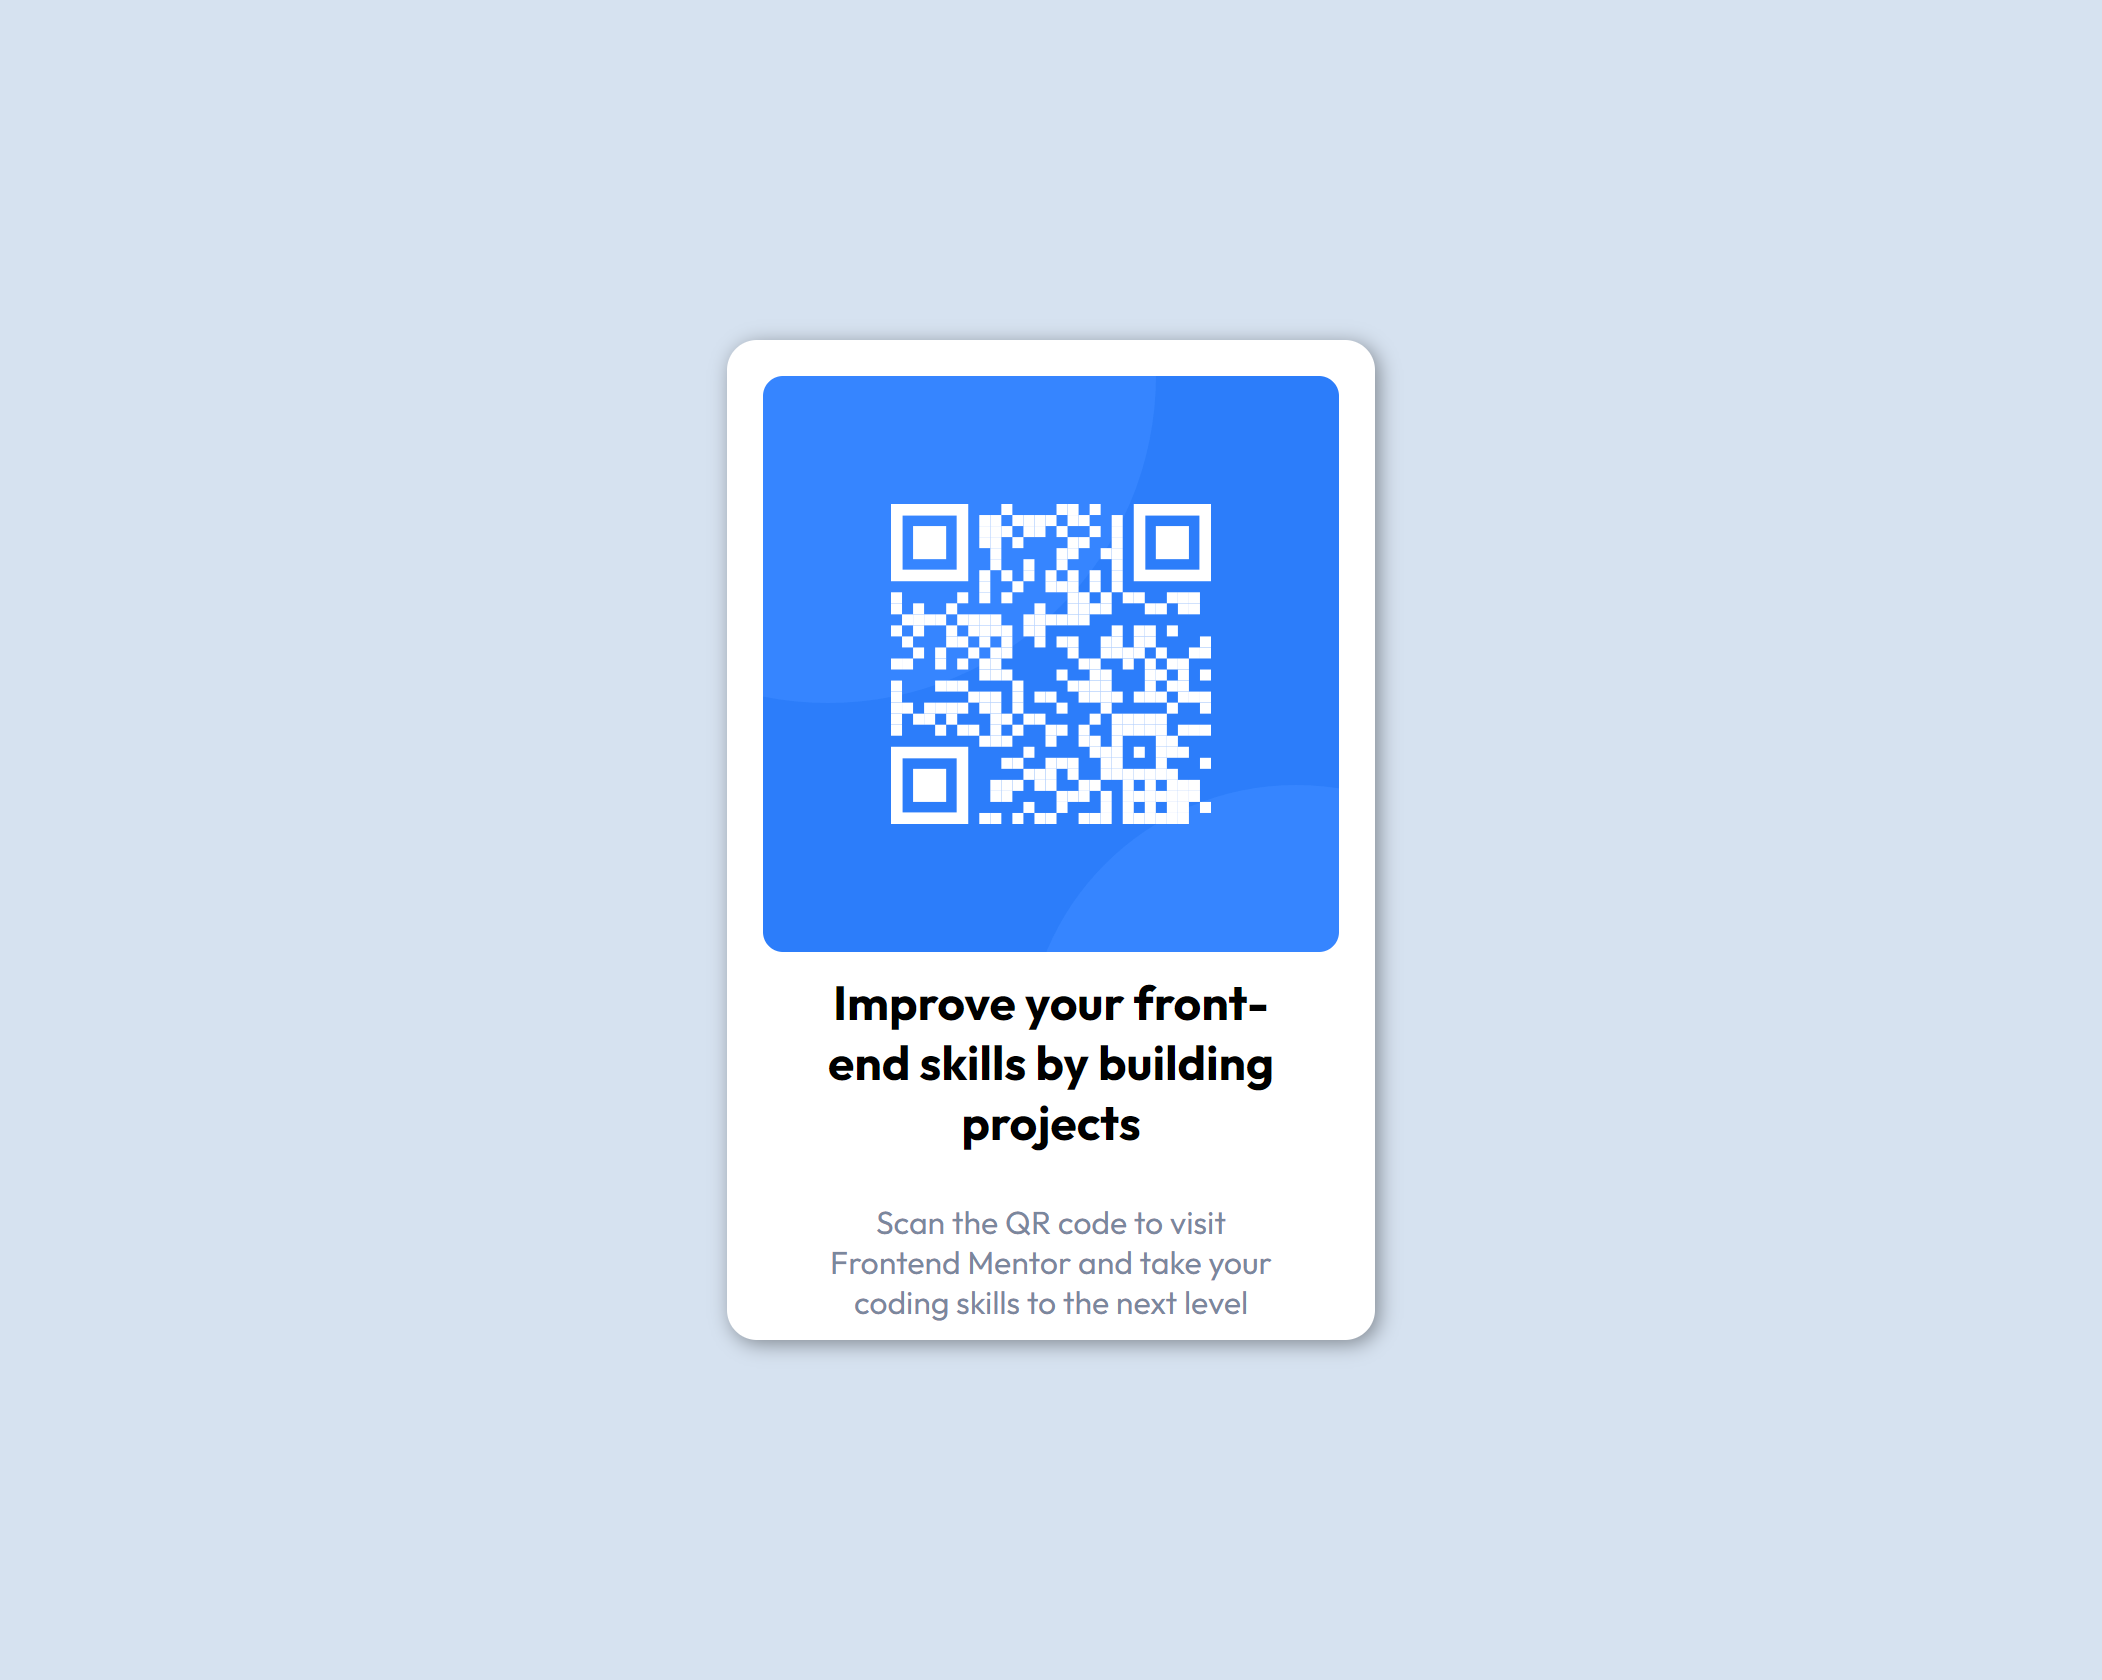
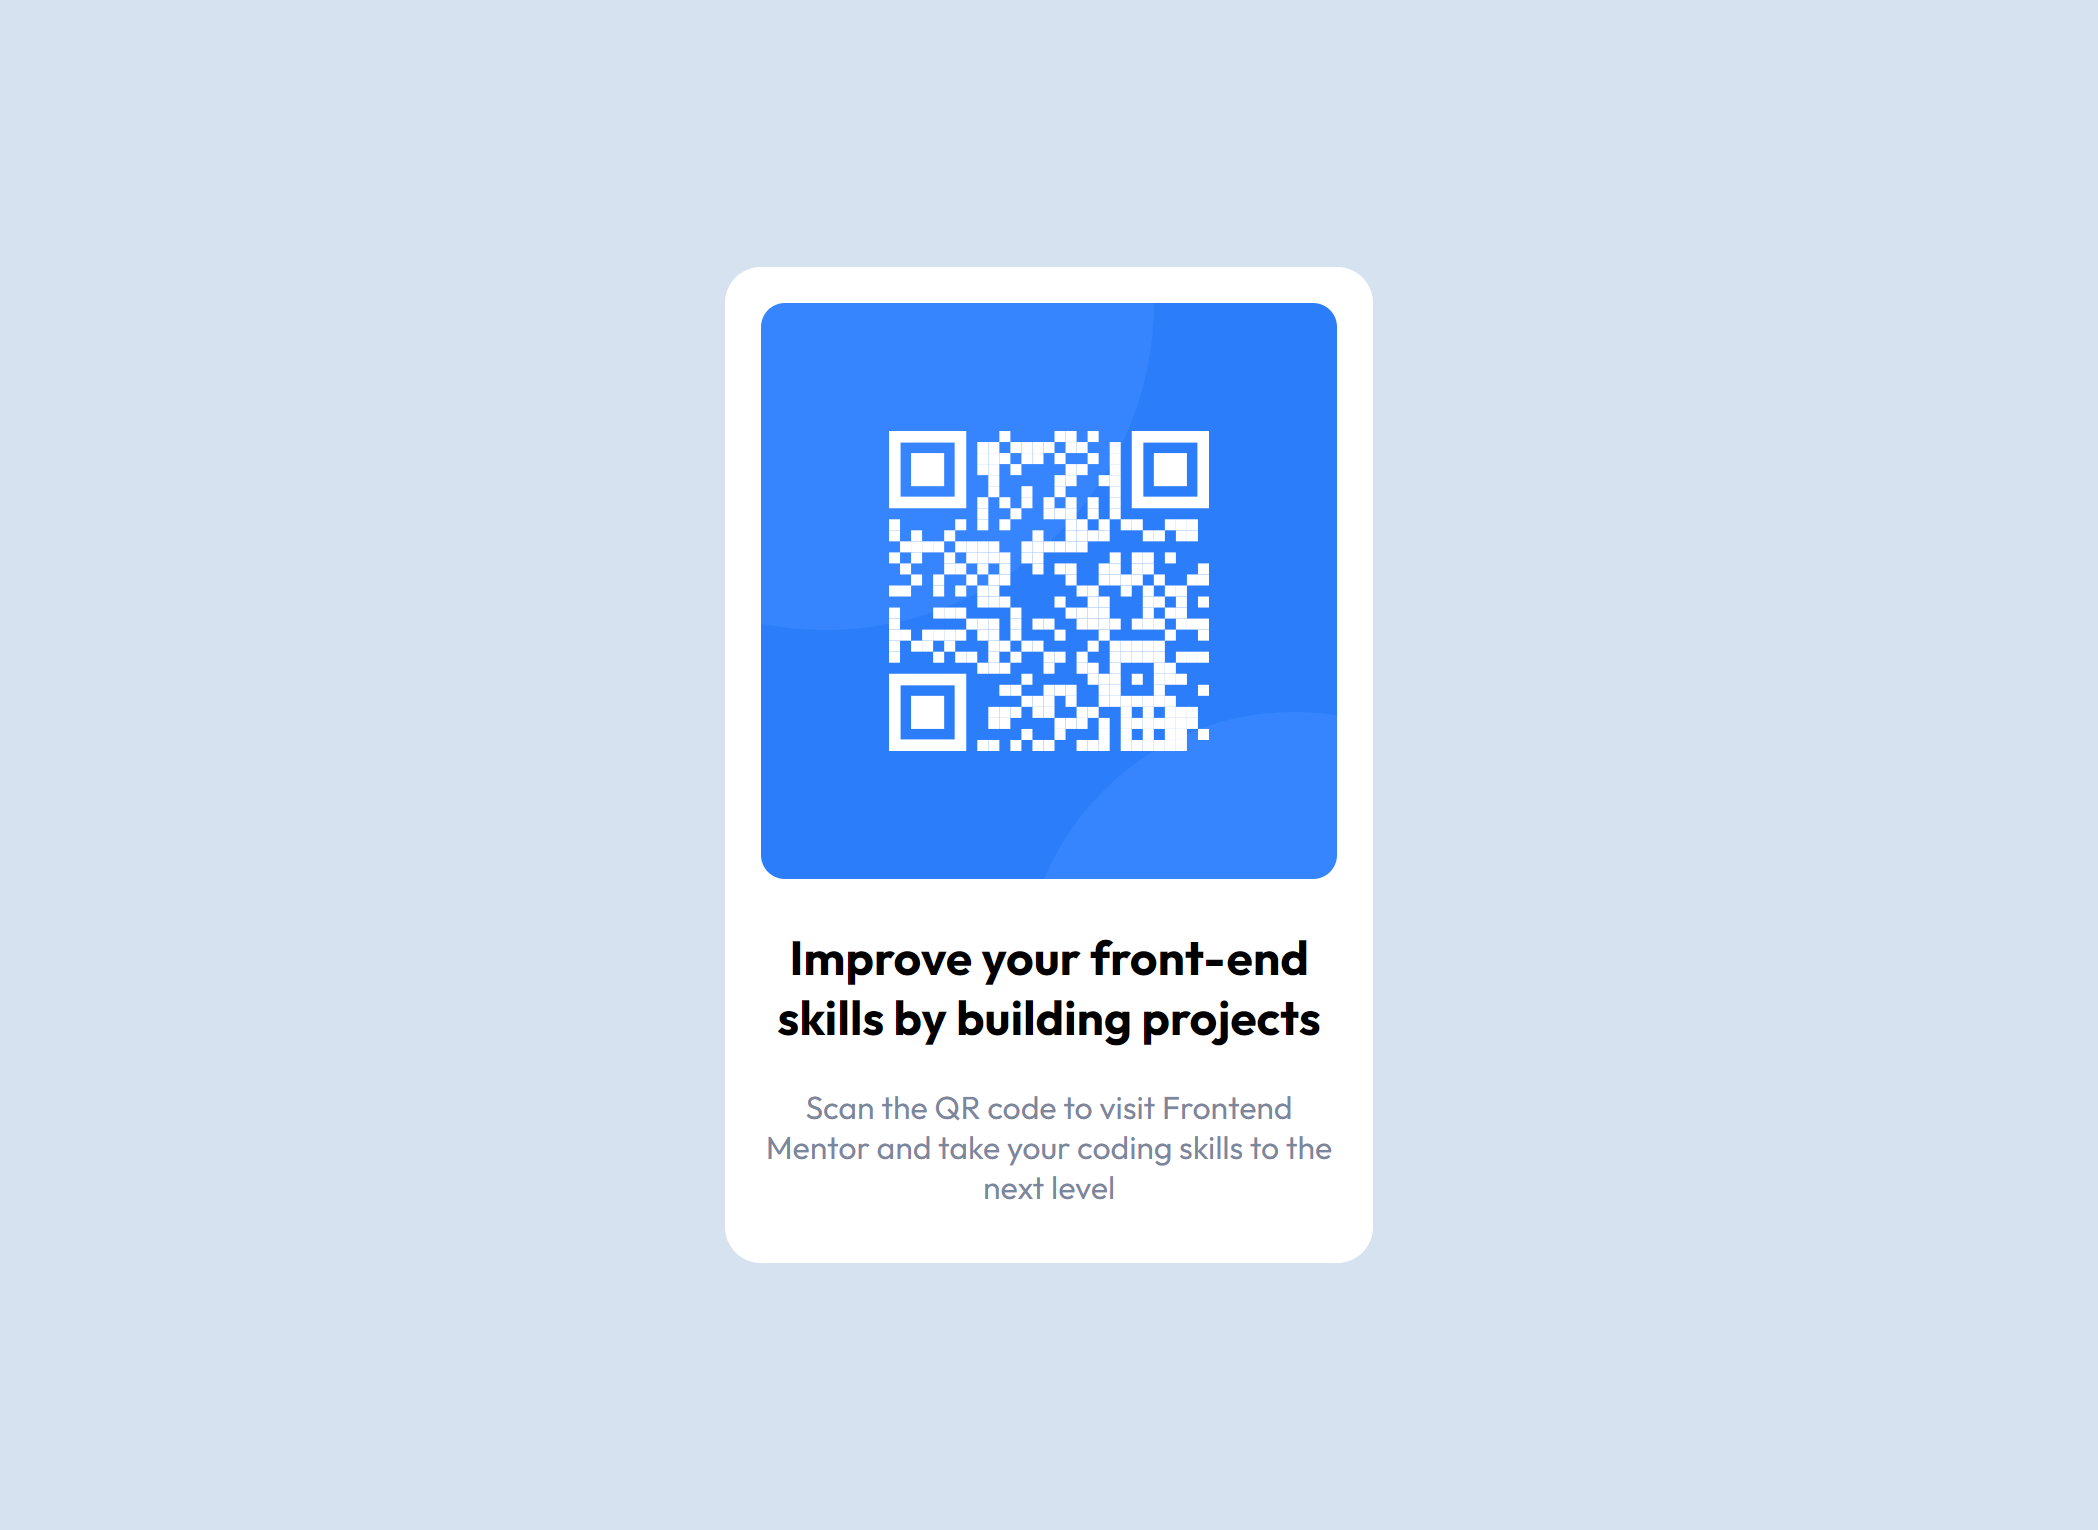
Add files via upload

Changed region(s): [[0.3408, 0.1536, 0.6816, 0.8294], [0.4028, 0.2765, 0.5887, 0.4915]]

diff --git a/style.css b/style.css
@@ -15,57 +15,57 @@
   padding: 0;
   box-sizing: border-box;
 }
+
 body {
-  font-family: 'Outfit', sans-serif;;
+  font-family: 'Outfit', sans-serif;
   background: var(--light-gray);
-  
+  min-height: 100vh;
+  display: flex;
+  justify-content: center;
+  padding: 10px;
+
+}
+
+.sr-only { 
+  border: 0;
+  padding: 0;
+  margin: 0;
+  position: absolute !important;
+  height: 1px; 
+  width: 1px;
+  overflow: hidden;
+  clip: rect(1px 1px 1px 1px); /* IE6, IE7 - a 0 height clip, off to the bottom right of the visible 1px box */
+  clip: rect(1px, 1px, 1px, 1px); /*maybe deprecated but we need to support legacy browsers */
+  clip-path: inset(50%); /*modern browsers, clip-path works inwards from each corner*/
+  white-space: nowrap; /* added line to stop words getting smushed together (as they go onto seperate lines and some screen readers do not understand line feeds as a space */
 }
 
 .container {
-  color: #000;
-  height: 100vh;
-  width: 100%;
-  display: flex;
-  justify-content: center;
-  align-items: center; 
- }
+ display: flex;
+ justify-content: center;
+ align-items: center;  
+}
+
 
 .card {
-  background: #fff;
-  border-radius: 15px;
-  box-shadow: 2px 2px 10px 0 rgba(0, 0, 0, 0.4);
-  height: 500px;
-  width: 324px;
-  background: var(--white);
-  display: flex;
-  flex-direction: column;
-  align-items: center;
-  margin: 0 10px;
+  max-width: 324px;
   padding: 18px;
-  
+  border-radius: 18px;
+  background: white;
+  text-align: center;
 }
-
 
 img {
-  border-style: none;
-  border-radius: 10px;
   width: 100%;
-  
+  border-radius: 12px;
 }
 
-.card-headline {
-  margin: 10px 24px 15px ;
-  text-align: center;
-  font-size: 1rem;
-  font-weight: 700;
+.card h2 {
+  padding: 20px 0;
+  font-weight: bold;
 }
 
-.card-text {
-  text-align: center;
-  font-size: 1rem;
-  font-weight: 400;
-  margin: 10px 24px 15px;
-  color: var(--gray-blue);
+.card p {
+  padding-bottom: 10px;
+  color: var(--gray-blue)
 }
-
-

diff --git a/index.html b/index.html
@@ -5,21 +5,17 @@
   <meta http-equiv="X-UA-Compatible" content="IE=edge">
   <meta name="viewport" content="width=device-width, initial-scale=1.0">
   <link rel="stylesheet" href="style.css">
+  <link rel="icon" type="image/x-icon" href="/images/favicon-32x32.png">
   <title>Document</title>
 </head>
 <body>
-    <main>
-      <div class="container">      
-        <div class="card">
-          <img src="./images/image-qr-code.png" alt="QR Code image">
-          <div class="card-headline">
-            <h2>Improve your front-end skills by building projects</h2>
-          </div>
-          <div class="card-text">
-            <p>Scan the QR code to visit Frontend Mentor and take your coding skills to the next level</p>
-          </div>
-        </div>
-      </div>    
-    </main>
+  <h1 class="sr-only">QR code to visit Frontend Mentor</h1>
+    <div class="container">
+      <div class="card">
+        <img src="/images/image-qr-code.png" alt="QR code to Frontend Mentor">
+        <h2>Improve your front-end skills by building projects</h2>
+        <p>  Scan the QR code to visit Frontend Mentor and take your coding skills to the next level</p>
+      </div>
+    </div>
   </body>
 </html>

diff --git a/README.md b/README.md
@@ -19,7 +19,7 @@ This is a solution to the [QR code component challenge on Frontend Mentor](https
 
 ## Overview
 
-This was a basic, common card component found on many websites.  
+This was a basic, common card component found on many websites.  This is my second attempt.  My first attempt I overcomplicated the code and it wound up sloppy.
 
 ### Screenshot
 
